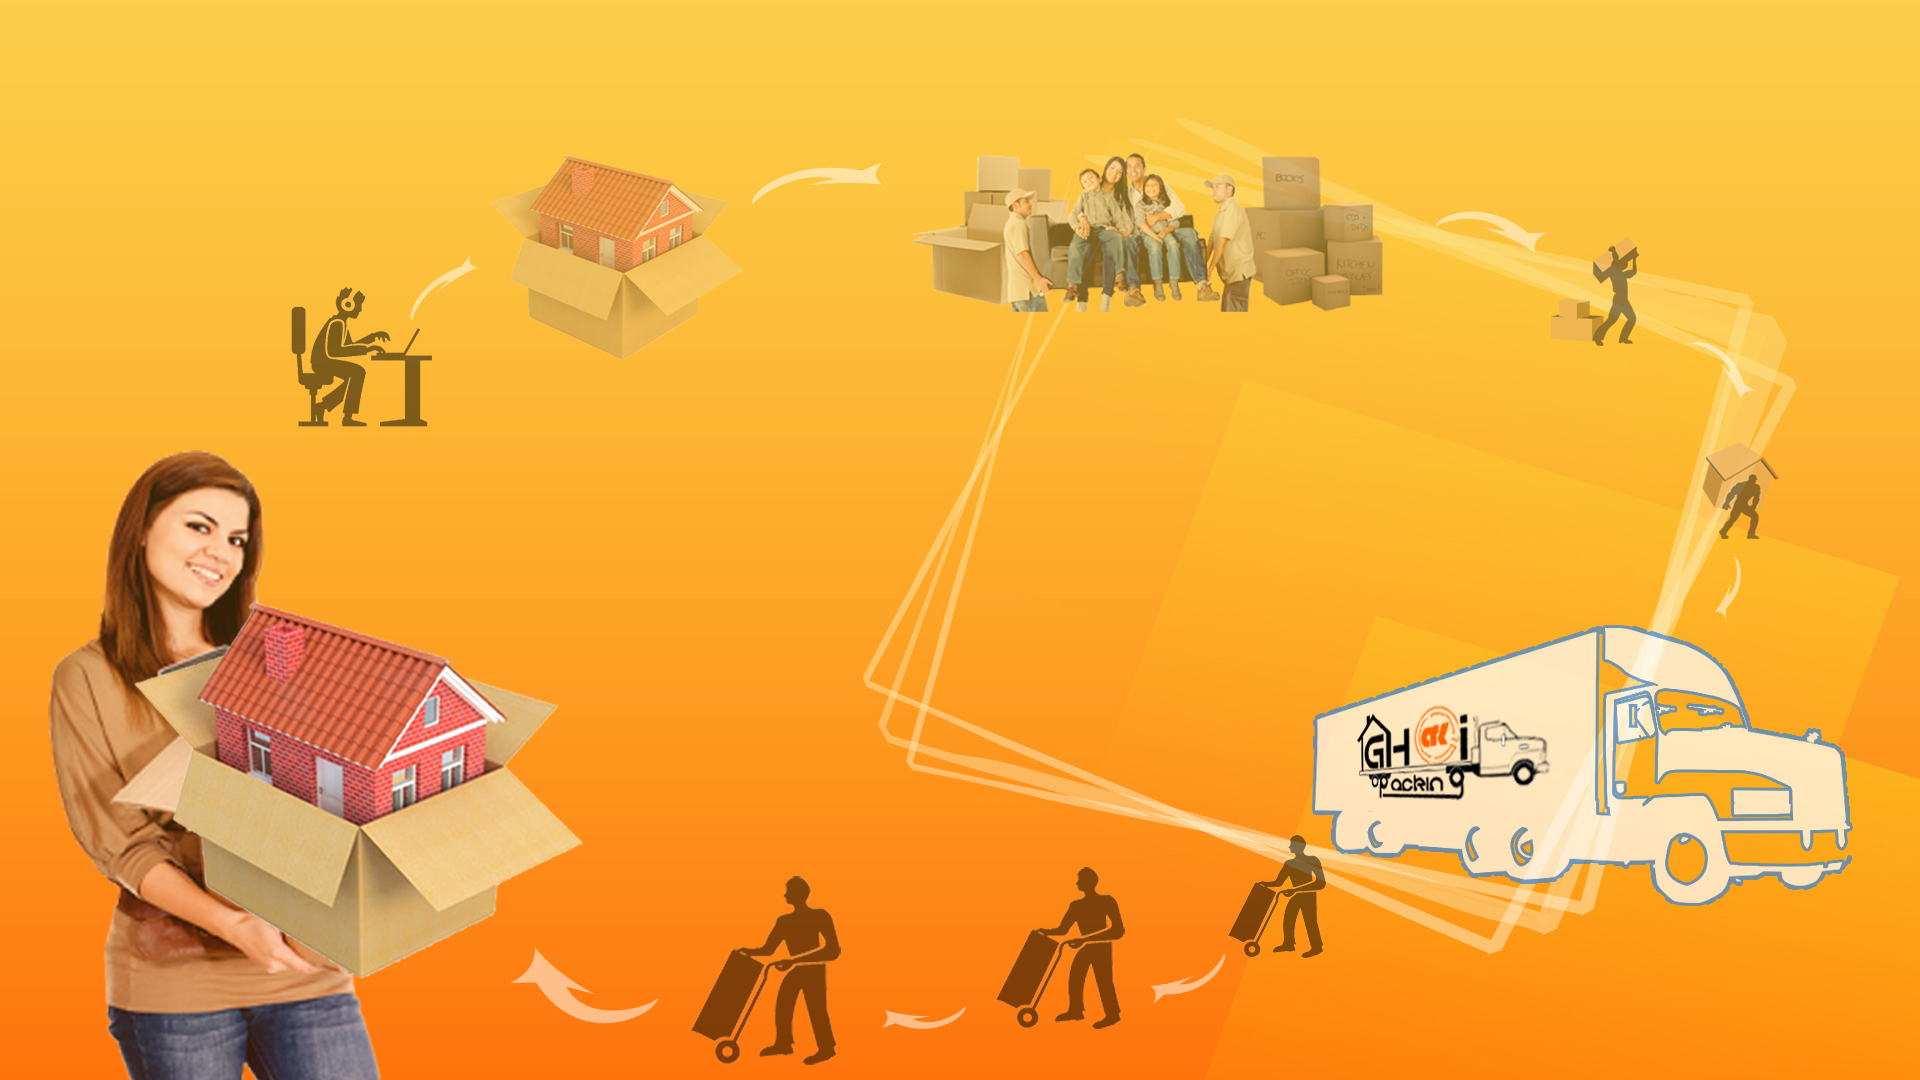
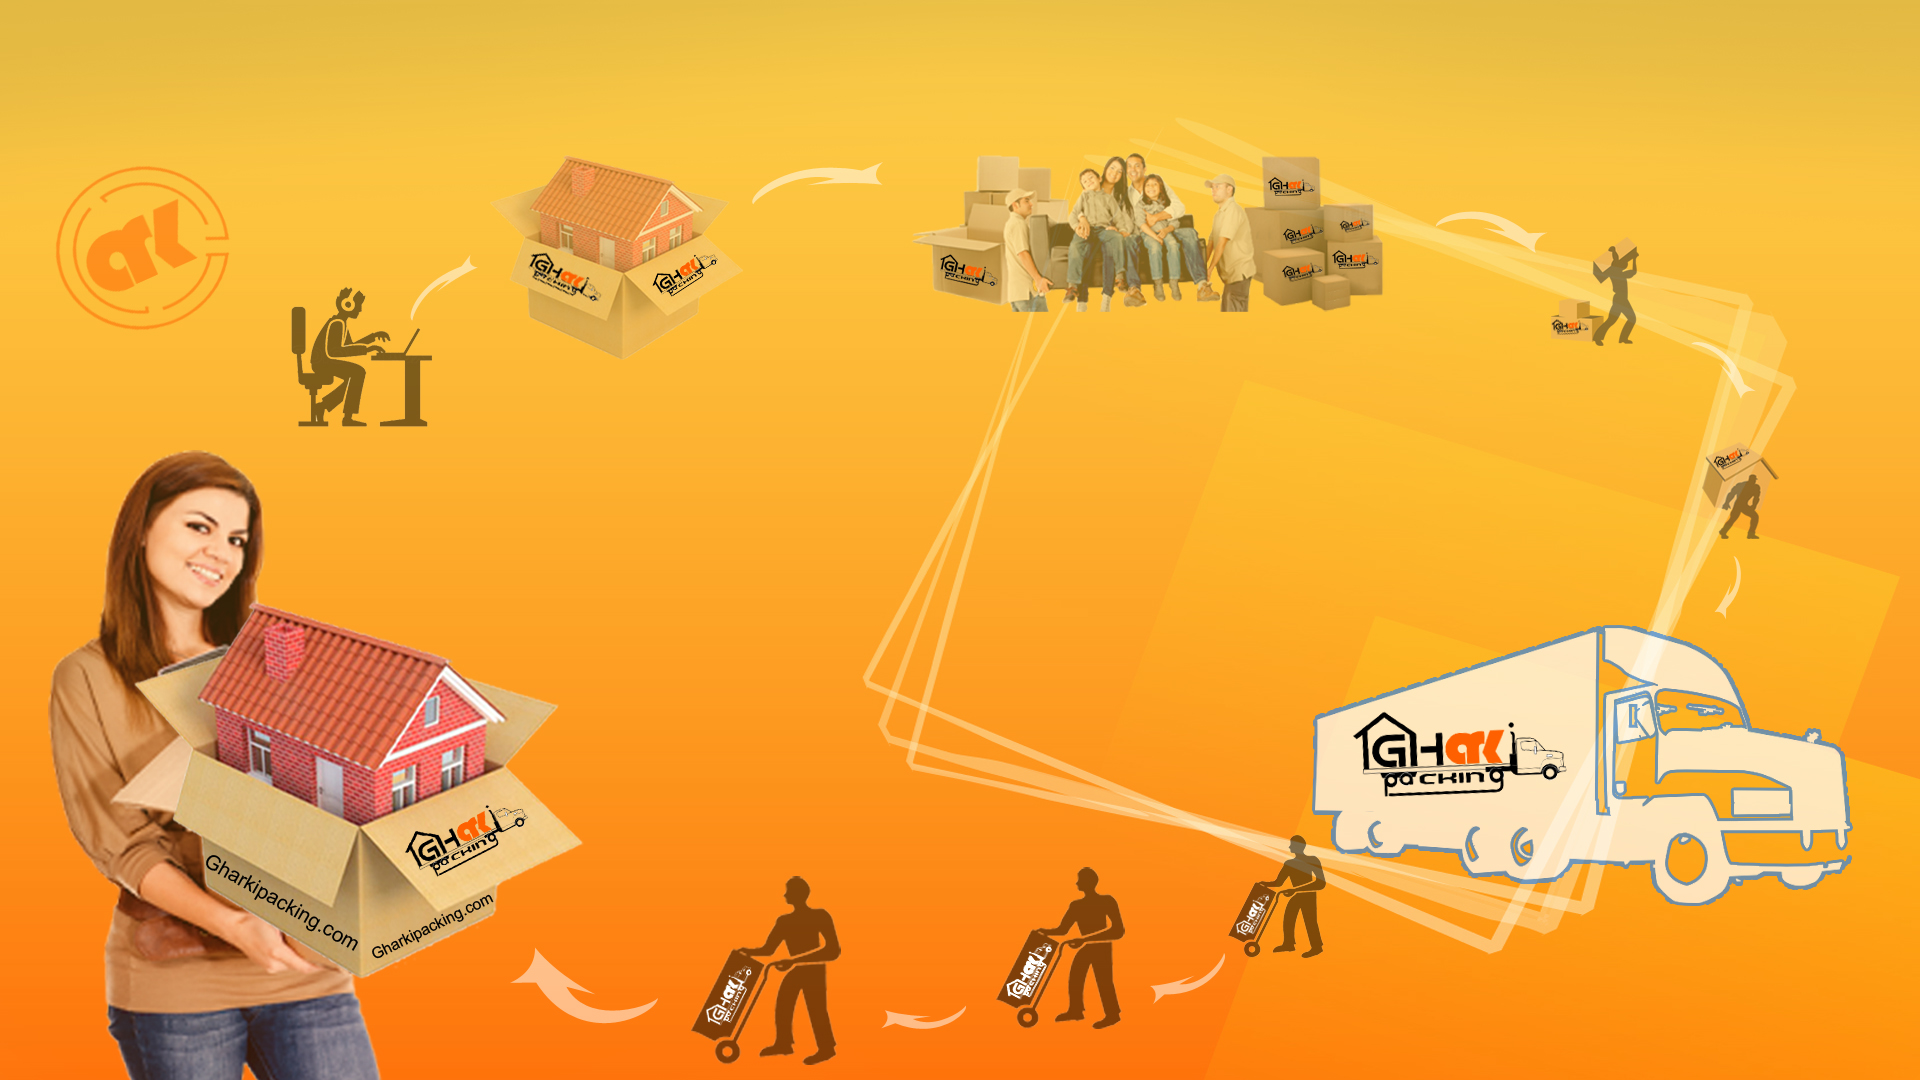
Modified Home screen jpg file

diff --git a/frontend/index.html b/frontend/index.html
@@ -9,7 +9,7 @@
     <meta name="description" content="">
     <meta name="author" content="">
 <link rel="SHORTCUT ICON" href="img/InternetTabLogo.png"/>
-    <title>HP</title>
+    <title>GharkiPacking</title>
 
     <!-- Bootstrap Core CSS -->
     <link href="css/bootstrap.min.css" rel="stylesheet">
